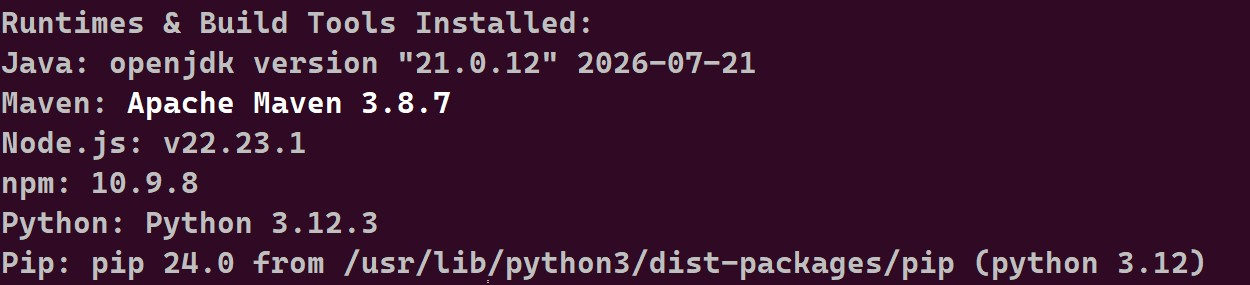
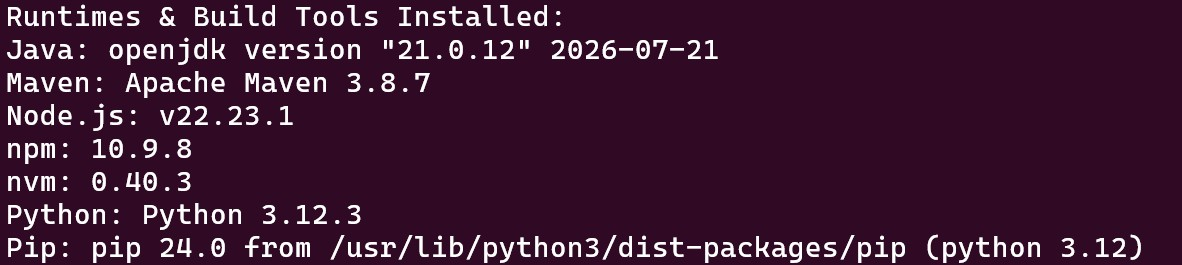
update multiple config files

Changed region(s): [[0.0, 0.1509, 0.9746, 0.9962], [0.0, 0.0, 0.4873, 0.1208]]

diff --git a/docs/00-tools-versions.md b/docs/00-tools-versions.md
@@ -12,10 +12,10 @@
 ### 1. Runtimes & Build Engines
 | Category | Tool / Utility | Pin Version |
 | :--- | :--- | :--- |
-| **Java Runtime** | OpenJDK | `21.0.11 LTS` |
+| **Java Runtime** | OpenJDK | `21.0.12 LTS` |
 | **Python Runtime** | Python 3 | `v3.12.3` |
 | **Node.js Runtime** | Node.js | `v22.23.1 LTS` |
-| **Package Managers** | npm | `v10.9.8` |
+| **Package Managers** | nvm / npm | `v0.40.3` / `v10.9.8` |
 | | pip | `v24.0` |
 | **Build Tool** | Apache Maven | `v3.8.7` |
 
@@ -24,12 +24,12 @@
 | Category | Tool / Binary | Pin Version |
 | :--- | :--- | :--- |
 | **Container Engine** | Docker Engine | `v27.5.1` |
-| **Docker Plugins** | Docker Buildx | `v0.36.1` |
-| | Docker Compose | `v5.5.0` |
+| **Docker Plugins** | Docker Buildx | `v0.37.0` |
+| | Docker Compose | `v5.5.1` |
 | **Container Runtime** | Containerd | `v2.3.4` |
-| **Local K8s Engine** | KIND (Kubernetes in Docker) | `v0.31.0` |
-| **K8s CLI Tools** | kubectl | `Client v1.34.3` |
-| | kustomize | `v5.7.1` |
+| **Local K8s Engine** | KIND (Kubernetes in Docker) | `v0.32.0` |
+| **K8s CLI Tools** | kubectl | `Client v1.36.4` |
+| | kustomize | `v5.8.1` |
 | | Helm | `v3.17.3` |
 
 ### 3. CI/CD, Registry & Security (SAST)
@@ -56,9 +56,9 @@
 | Tool Name | Primary Purpose | Pin Version |
 | :--- | :--- | :--- |
 | **Terraform** | Infrastructure as Code | `v1.15.9` |
-| **Ansible Core** | Configuration Management | `v2.16.3` |
-| **Trivy** | Container & Vulnerability Scanner | `v0.74.0` |
-| **AWS CLI** | Cloud Management CLI | `v2.32.29` |
+| **Ansible Core** | Configuration Management | `v2.20.3` |
+| **Trivy** | Container & Vulnerability Scanner | `v0.71.1` |
+| **AWS CLI** | Cloud Management CLI | `v2.35.24` |
 | **Git** | Distributed Version Control | `v2.43.0` |
 | **JQ / YQ** | JSON & YAML Processors | `jq-1.7` / `v4.53.3` |
 | **GNU Make** | Build Automation | `v4.3` |

diff --git a/config/kind/readme.md b/config/kind/readme.md
@@ -1,6 +1,6 @@
 # 📦 Multi-Node Kubernetes Setup using KIND
 
-This folder contains the configuration and operational guides for provisioning and maintaining a local 4-node Kubernetes cluster using** Kind (Kubernetes in Docker)**.
+This folder contains the configuration and operational guides for provisioning and maintaining a local **4-node Kubernetes** cluster using **Kind (Kubernetes in Docker)**.
 
 ### 🏛 Cluster Topology
 The cluster simulates a production-grade topology locally on WSL2/Linux:
@@ -17,6 +17,27 @@ Once deployed, NodePort services listening on these ports inside the cluster bec
 | **Grafana** | `30030` | `30030` |
 | **Prometheus** | `30090` | `30090` |
 
+### ⚙ Prerequisites & WSL2 cgroup v2 Configuration
+Kubernetes **v1.36+** (e.g., `v1.36.4`) requires **cgroup v2** for proper resource accounting and systemd init driver compatibility inside Kind node containers.
+
+**1. Enable cgroup v2 in WSL2**
+- Create or update your `%USERPROFILE%\.wslconfig` file on your Windows host (or `/etc/wsl.conf` inside Linux)
+```ini
+[wsl2]
+kernelCommandLine = cgroup_no_v1=all
+```
+- After modifying the configuration, restart WSL2 from PowerShell/CMD:
+```sh
+wsl --shutdown
+```
+
+**2. Verify cgroup v2 in WSL2/Ubuntu**
+Inside your WSL2 shell, verify that cgroup v2 is active:
+```sh
+stat -fc %T /sys/fs/cgroup
+# Output must be: cgroup2fs
+```
+
 ### 🚀 Cluster Provisioning
 
 **1. Create the Cluster**
@@ -25,7 +46,7 @@ Deploy the cluster using the configuration manifest:
 kind create cluster \
   --name dev-cluster \
   --config config/kind/kind-config.yaml \
-  --image kindest/node:v1.34.3
+  --image kindest/node:v1.36.4
 ```
 
 **2. Verify Deployment**
